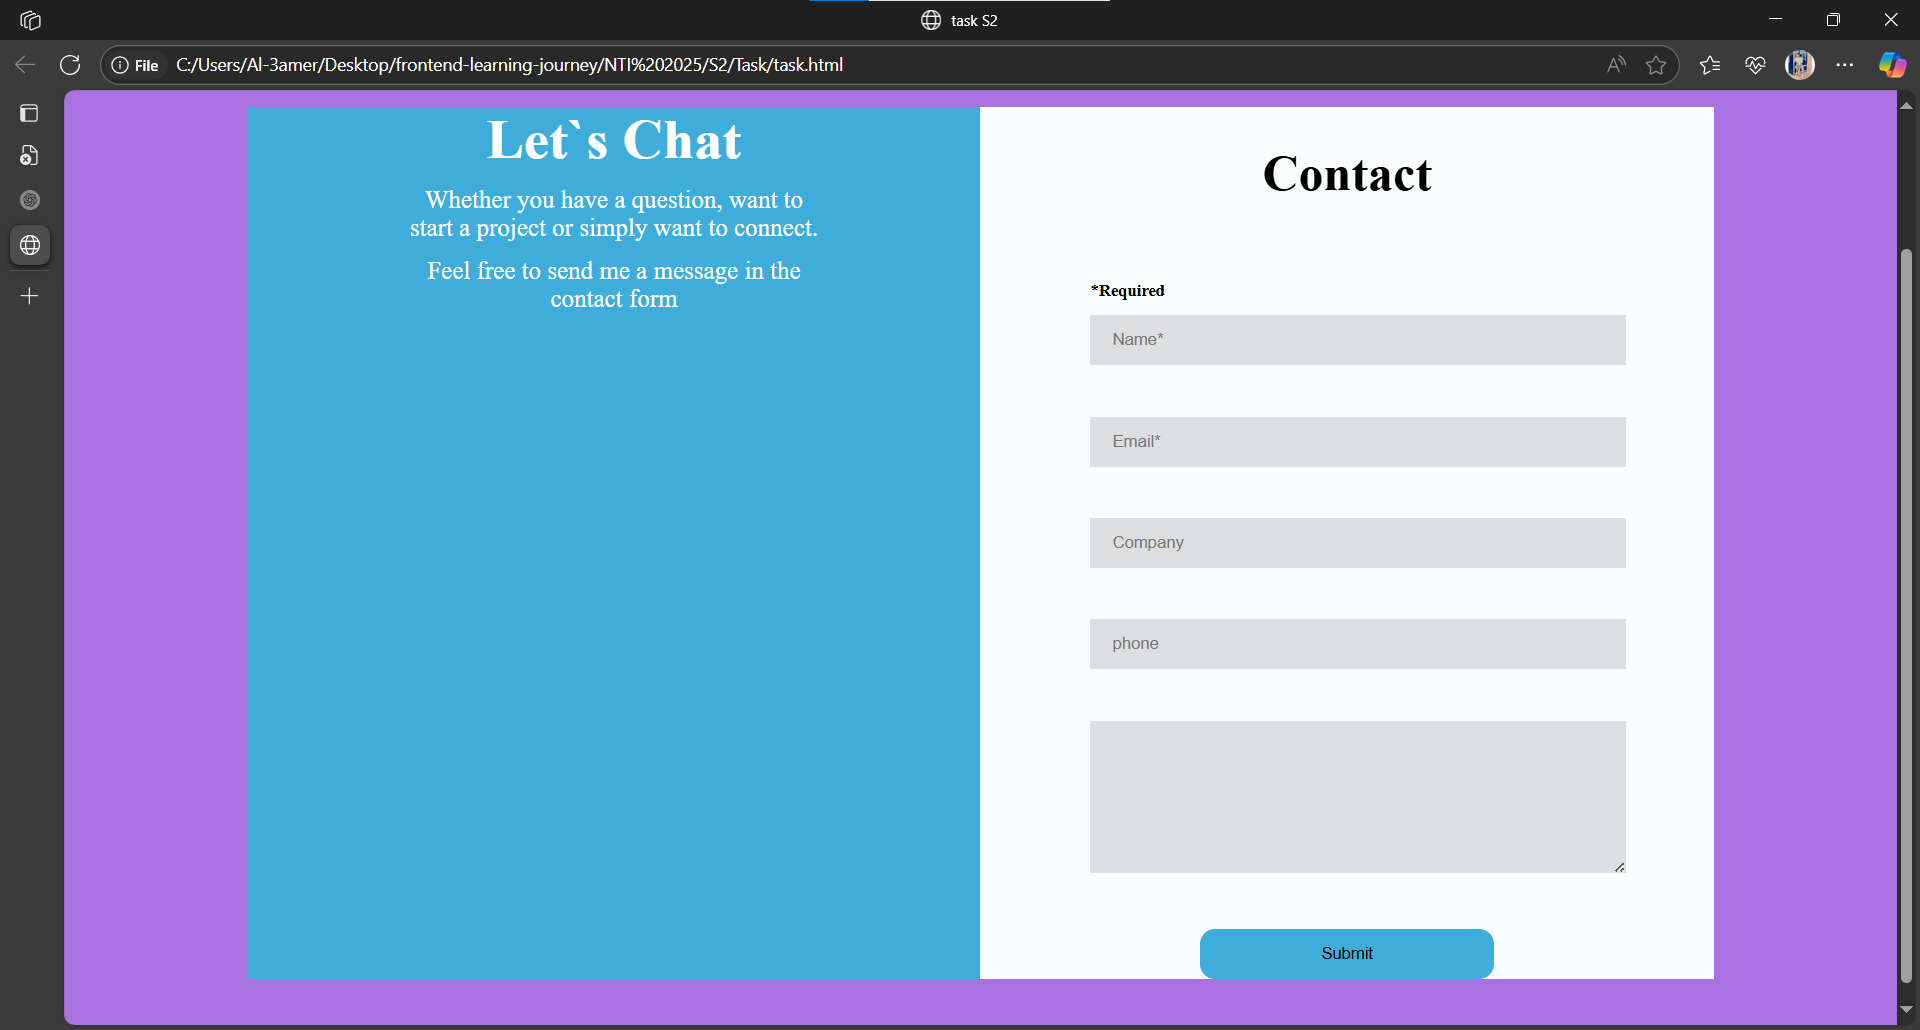
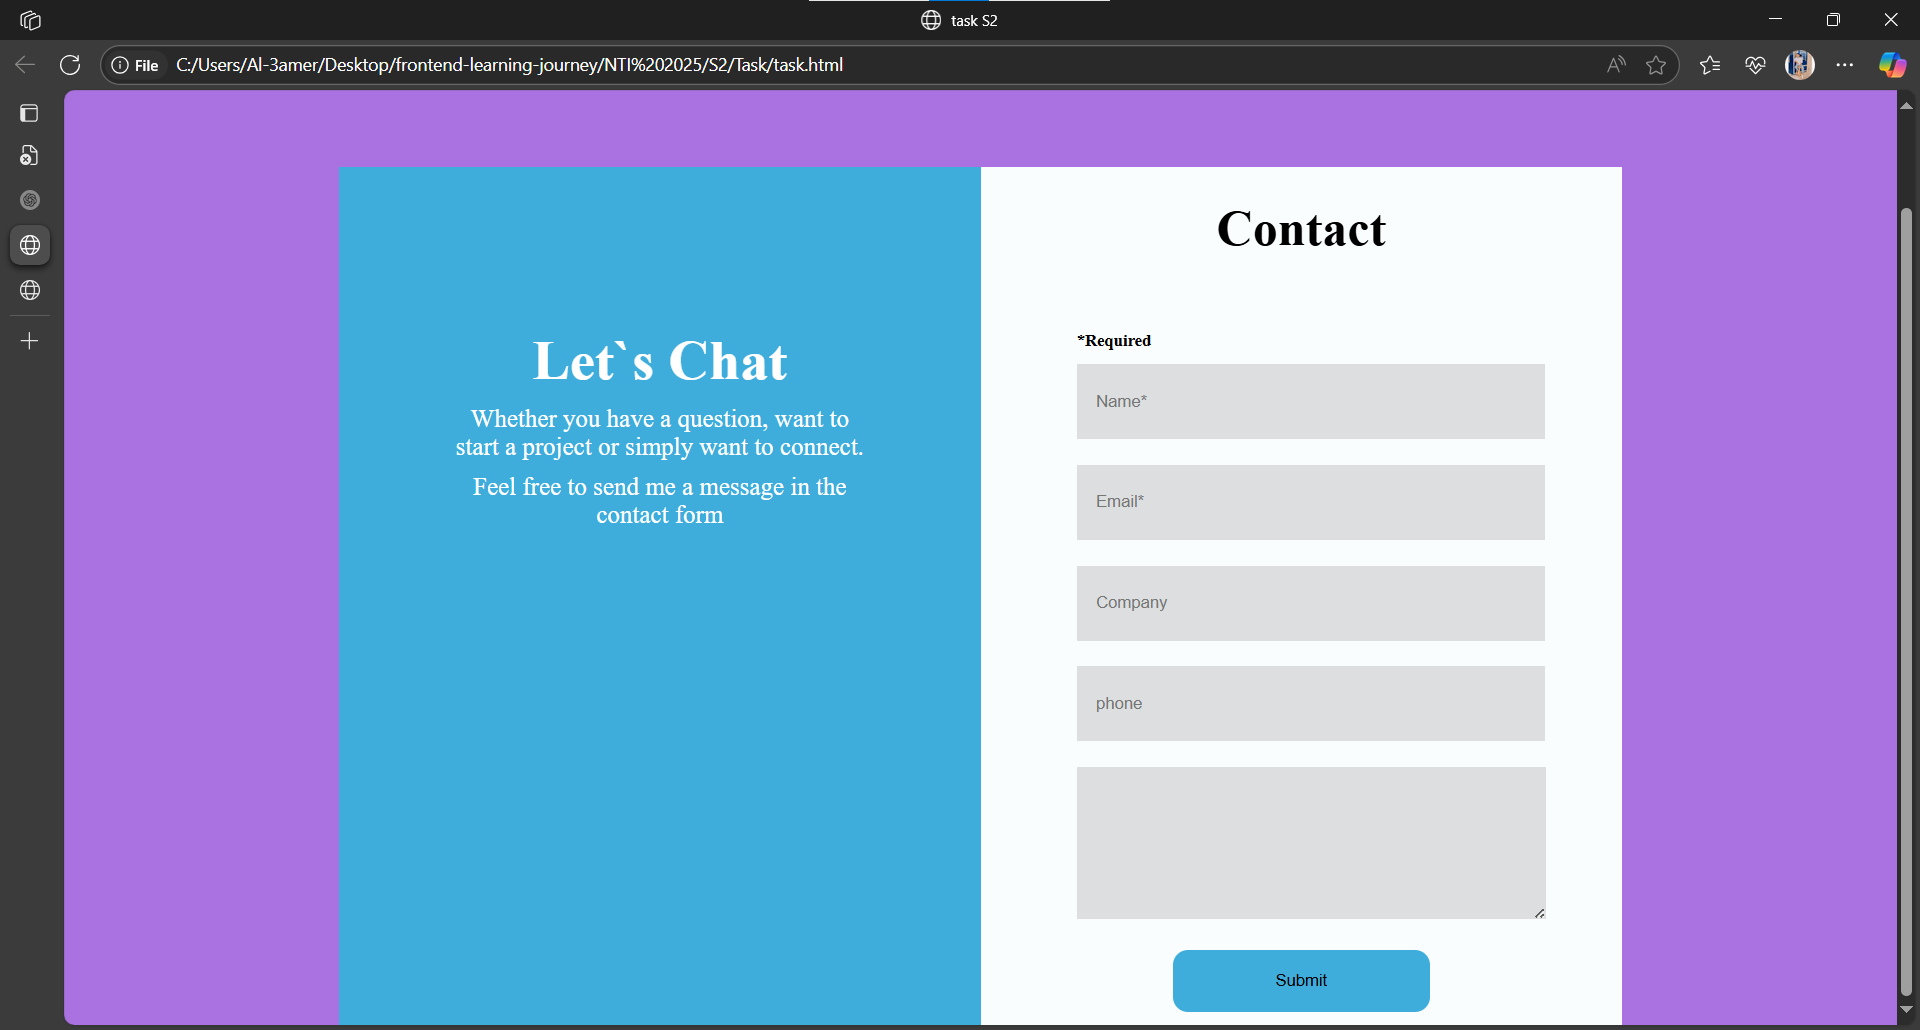
task S2

diff --git a/NTI 2025/S2/Task/task.css b/NTI 2025/S2/Task/task.css
@@ -5,11 +5,14 @@
 
 body {
     background-color: rgb(170, 113, 224);
+
+    border-radius: 25px;
+
 }
 
 #main {
-    width: 80%;
-    height: 600px;
+    width: 70%;
+    height: 400px;
     border-radius: 25px;
     background-color: rgb(255, 252, 252);
     margin: 10% auto;
@@ -19,6 +22,9 @@ table {
     width: 100%;
     height: 100%;
     border-collapse: collapse;
+        border-radius: 25px;
+
+
 }
 #left {
     background-color: rgb(250, 253, 254);
@@ -36,8 +42,7 @@ table {
     color: white;
     font-size: 45px;
     width: 100%; 
-    ةش
-
+    margin-top:25%;
 }
 #main table td p {
     margin: 2% auto;
@@ -60,11 +65,11 @@ h5{
 .Box{
     border: none;
     width: 70%;
-    height: 40px;
+    height: 60px;
     background-color: rgba(103, 101, 101, 0.2);
     padding-left: 3%;
     margin-left: 15%;
-    margin-bottom: 5%;
+    margin-bottom: 2%;
     margin-top: 2%;
     margin-right: 15%;
 
@@ -74,7 +79,7 @@ h5{
             border: none;
                  padding-left: 3%;
     margin-left: 15%;
-    margin-bottom: 5%;
+    margin-bottom: 2%;
     margin-top: 2%;
 }
 #submit{
@@ -83,7 +88,8 @@ h5{
     border-radius: 12px;
     margin-left:30% ;
     margin-top:2%;
-    height: 40px;
+     margin-bottom:2%;
+    height: 50px;
     width: 40%;
 }
 

diff --git a/NTI 2025/S2/Task/task.html b/NTI 2025/S2/Task/task.html
@@ -32,7 +32,7 @@
                             <br>
                             <input type="phone" class="Box" placeholder="phone">
                             <br>
-                            <textarea rows="8" cols="54" placeholder="Message" id="massage"> </textarea>
+                            <textarea rows="8" cols="47" placeholder="Message" id="massage"> </textarea>
                             <input type="Submit" id="submit">
 
                         </form>
